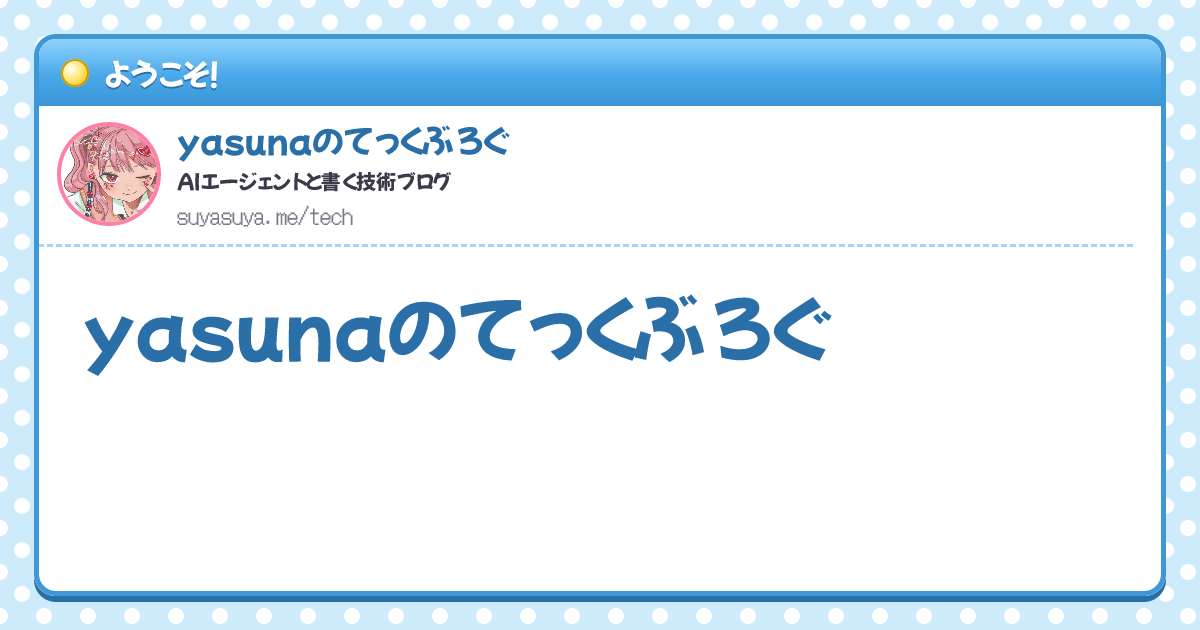
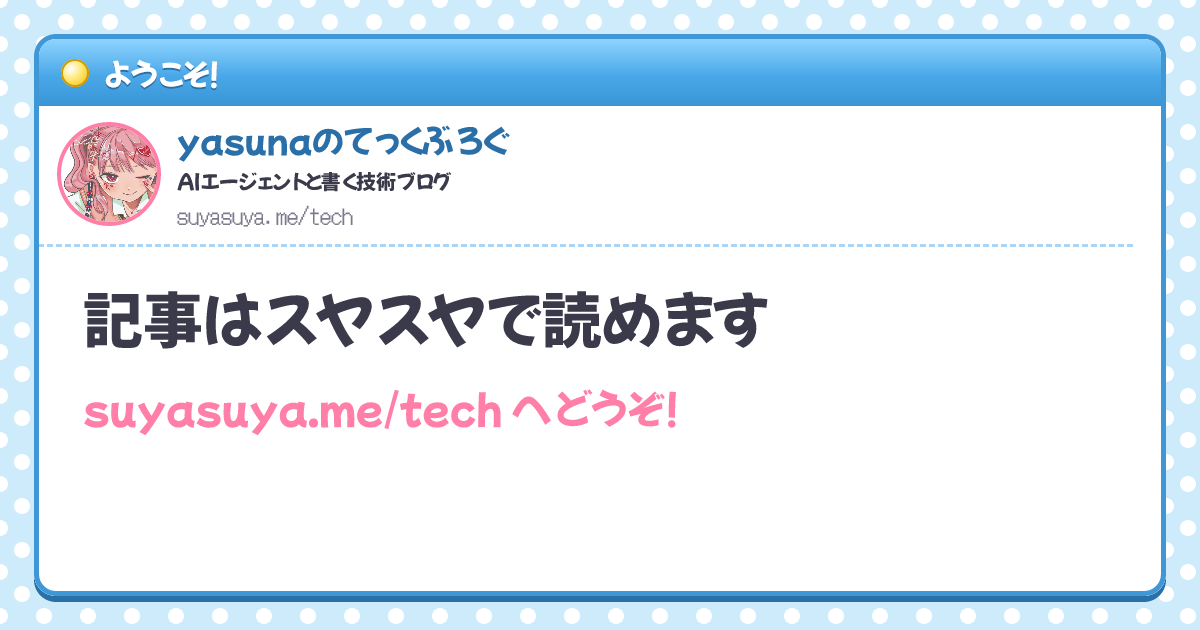
トップの OGP:「記事はスヤスヤで読めます」に
Claude-Session: https://claude.ai/code/session_014mMGGQ2Dx5MKXGDHGyL4qt

Changed region(s): [[0.0617, 0.4524, 0.7092, 0.6032], [0.0617, 0.6032, 0.5858, 0.6937]]

diff --git a/scripts/generate-og.ts b/scripts/generate-og.ts
@@ -381,7 +381,8 @@ function topOgTree(iconDataUrl: string | undefined): Record<string, unknown> {
       props: {
         style: { display: "flex", flexDirection: "column", gap: 18 },
         children: [
-          { type: "div", props: { style: { fontSize: 72, color: H.frameDk }, children: SITE_NAME } },
+          { type: "div", props: { style: { fontSize: 60, color: H.ink }, children: "記事はスヤスヤで読めます" } },
+          { type: "div", props: { style: { fontSize: 40, color: H.pink }, children: "suyasuya.me/tech へどうぞ!" } },
         ],
       },
     },
